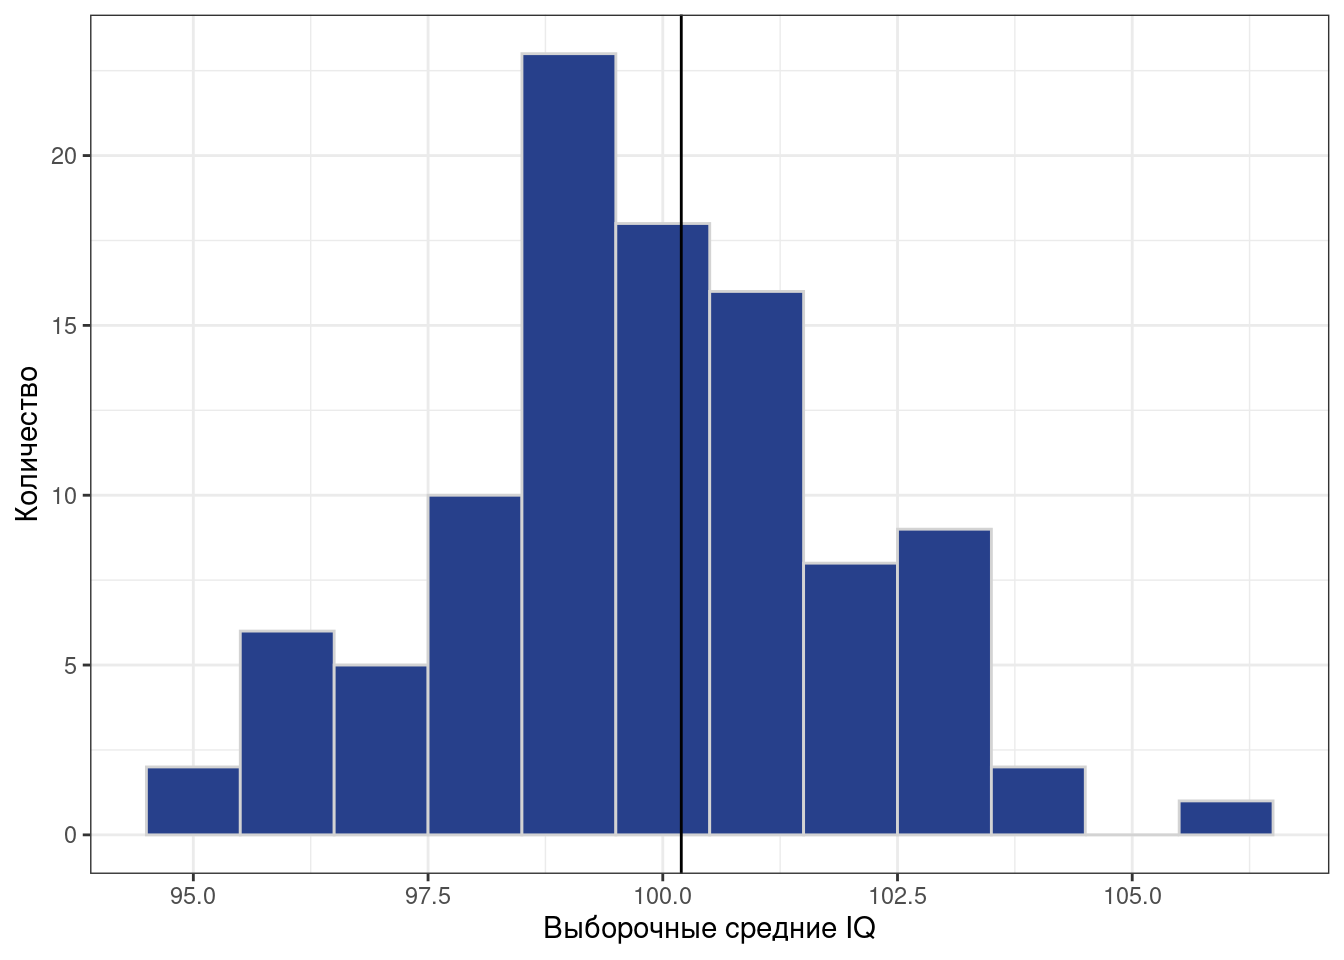
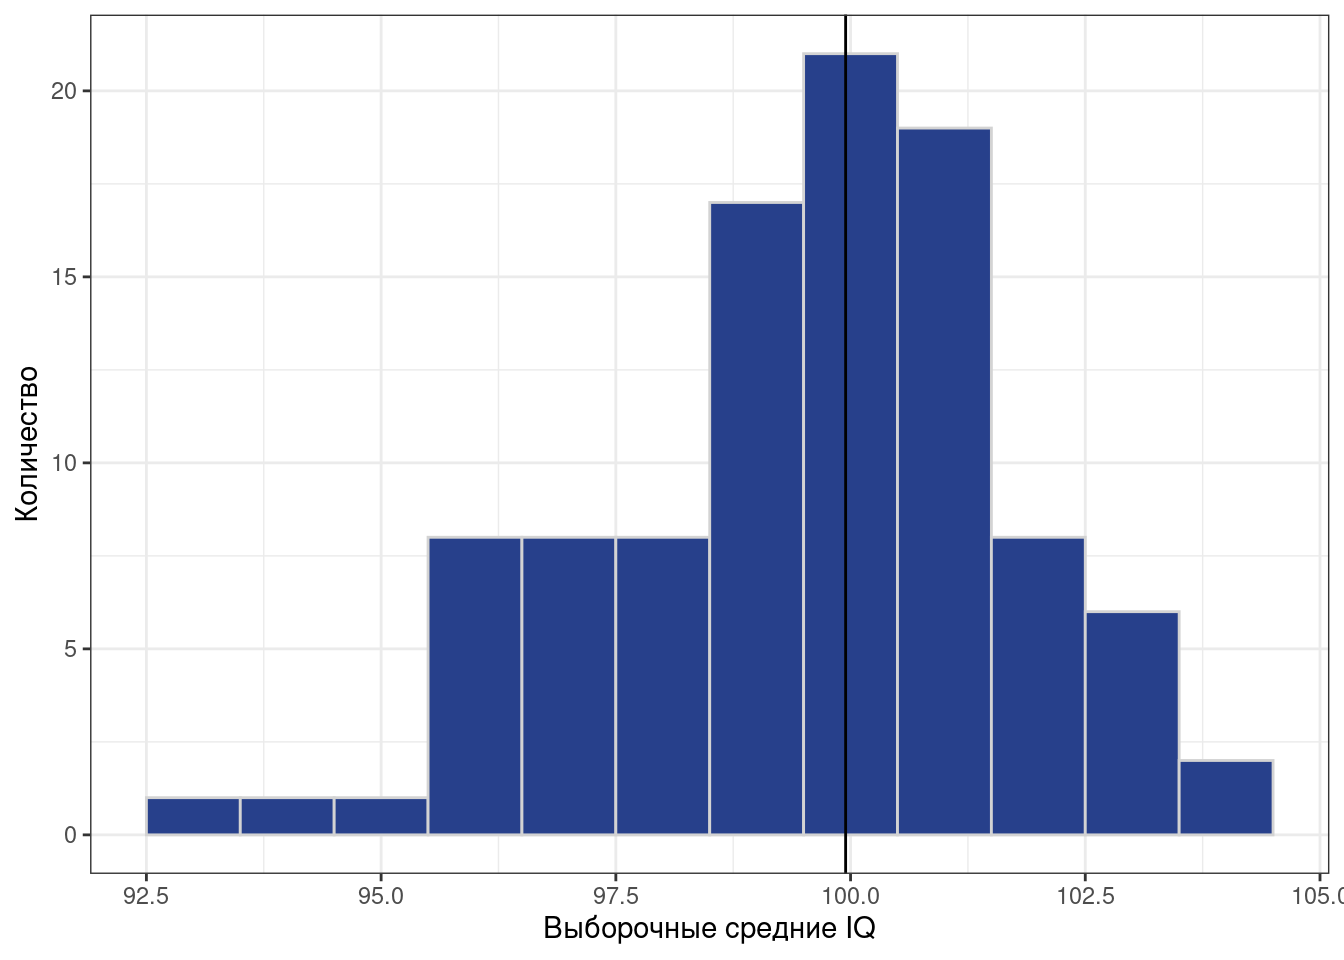
add formulas for mean and var stat-estim

diff --git a/book/_book/stats-estim.html b/book/_book/stats-estim.html
@@ -913,31 +913,31 @@ pre > code.sourceCode > span > a:first-child::before { text-decoration: underlin
 <pre><code># A tibble: 6 × 2
      id    IQ
   &lt;int&gt; &lt;dbl&gt;
-1     1    93
-2     2   118
-3     3   117
-4     4   106
-5     5   129
-6     6   136</code></pre>
+1     1   103
+2     2   109
+3     3   104
+4     4   127
+5     5    94
+6     6   114</code></pre>
 </div>
 <div class="sourceCode cell-code" id="cb5"><pre class="sourceCode r code-with-copy"><code class="sourceCode r"><span id="cb5-1"><a href="#cb5-1" aria-hidden="true" tabindex="-1"></a><span class="fu">tail</span>(iq)</span></code><button title="Копировать" class="code-copy-button"><i class="bi"></i></button></pre></div>
 <div class="cell-output cell-output-stdout">
 <pre><code># A tibble: 6 × 2
      id    IQ
   &lt;int&gt; &lt;dbl&gt;
-1  9995    98
-2  9996   116
-3  9997   103
-4  9998    95
-5  9999   135
-6 10000    80</code></pre>
+1  9995    95
+2  9996    68
+3  9997   115
+4  9998    72
+5  9999   100
+6 10000   116</code></pre>
 </div>
 </div>
 <p>Так как мы предположили, что это генеральная совокупность, то мы можем посчитать истинное значение параметра <span class="math inline">\(\mu\)</span>. <strong>В реальной жизни мы этого сделать не можем!</strong></p>
 <div class="cell">
 <div class="sourceCode cell-code" id="cb7"><pre class="sourceCode r code-with-copy"><code class="sourceCode r"><span id="cb7-1"><a href="#cb7-1" aria-hidden="true" tabindex="-1"></a><span class="fu">mean</span>(iq<span class="sc">$</span>IQ)</span></code><button title="Копировать" class="code-copy-button"><i class="bi"></i></button></pre></div>
 <div class="cell-output cell-output-stdout">
-<pre><code>[1] 100.197</code></pre>
+<pre><code>[1] 99.9475</code></pre>
 </div>
 </div>
 <p>Вполне ожидаемое значение<a href="#fn1" class="footnote-ref" id="fnref1" role="doc-noteref"><sup>1</sup></a>. Теперь попробуем наизвлекать выборок человек по 50 и посчитать <em>оценки среднего (выборочные средние)</em> <span class="math inline">\(\hat \mu\)</span> на них:</p>
@@ -1020,6 +1020,107 @@ pre > code.sourceCode > span > a:first-child::before { text-decoration: underlin
 \forall n \; \mathbb{E} \hat \theta = \theta, \quad (\mathbb{E}\hat \theta - \theta) \rightarrow 0,
 \]</span> где <span class="math inline">\(n\)</span> — объём выборки, <span class="math inline">\((\mathbb{E}\hat \theta - \theta)\)</span> — смещение.</p>
 <p>Слева представлено требование <em>несмещённости при любом объёме выборки</em>, а справа — <em>ассимптотической несмещённости</em>.</p>
+<section id="проверка-среднего-как-оценки-математического-ожидания-на-несмещенность" class="level5" data-number="24.1.4.1.1">
+<h5 data-number="24.1.4.1.1" class="anchored" data-anchor-id="проверка-среднего-как-оценки-математического-ожидания-на-несмещенность"><span class="header-section-number">24.1.4.1.1</span> Проверка среднего как оценки математического ожидания на несмещенность</h5>
+<p><span class="math display">\[
+X_1, X_2, \dots , X_n \overset{\text{i.i.d}}{\thicksim} (\mu, \sigma^2)
+\]</span></p>
+<p><span class="math display">\[
+\hat \mu = \frac{1}{m}\sum_{j=1}^m x_j = \bar X
+\]</span></p>
+<p><span class="math display">\[
+\mathbb{E}(\hat \mu) = \mathbb{E}(\bar X) \overset{?}{=} \mu
+\]</span></p>
+<p><span class="math display">\[
+\mathbb{E}(\bar X) = \mathbb{E}\big (\frac{1}{n} \sum_{i=1}^n X_i \big ) = \frac{1}{n} \mathbb{E}\Big( \sum_{i=1}^n X_i \Big) = \frac{1}{n} \sum_{i=1}^n \mathbb{E}X_i \overset{X_i \overset{\text{i.i.d}}{\sim} (\mu, \sigma^2)}{=} \frac{1}{n} \cdot n \cdot \mathbb{E}X = \frac{n}{n} \cdot \mu = \mu
+\]</span></p>
+</section>
+<section id="проверка-дисперсии-генеральной-совокупности-как-оценки-дисперсии-на-несмещенность" class="level5" data-number="24.1.4.1.2">
+<h5 data-number="24.1.4.1.2" class="anchored" data-anchor-id="проверка-дисперсии-генеральной-совокупности-как-оценки-дисперсии-на-несмещенность"><span class="header-section-number">24.1.4.1.2</span> Проверка дисперсии генеральной совокупности как оценки дисперсии на несмещенность</h5>
+<p><span class="math display">\[
+X_1, X_2, \dots , X_n \overset{\text{i.i.d}}{\thicksim} (\mu, \sigma^2)
+\]</span></p>
+<p><span class="math display">\[
+\begin{split}
+\mathbb{D}X &amp; = \sigma^2 = \mathbb{E}(X - \mathbb{E}X)^2 = \mathbb{E}(X^2 - 2 X \mathbb{E}X + \mathbb{E}^2 X) = \\
+&amp; = \mathbb{E}X^2 - 2\mathbb{E}X \mathbb{E}X + \mathbb{E}^2 X = \mathbb{E}X^2 - 2\mathbb{E}^2 X + \mathbb{E}^2 X = \\
+&amp; = \mathbb{E}X^2 - \mathbb{E}^2 X
+\end{split}
+\]</span></p>
+<p><span class="math display">\[
+\hat \sigma^2 = \frac{\sum_{i=1}^n (x_i - \bar X)^2}{n}
+\]</span></p>
+<p><span class="math display">\[
+\mathbb{E}(\hat \sigma^2) \overset{?}{=} \sigma^2
+\]</span></p>
+<p><span class="math display">\[
+\begin{split}
+\mathbb{E}(\hat \sigma^2) &amp; = \frac{\sum_{i=1}^n (x_i - \bar X)^2}{n} = \\
+&amp; = \frac{1}{n} \left(\sum_{i=1}^n x_i^2 - 2 \sum_{i=1}^n x_i \bar X  + \sum_{i=1}^n \bar X \right)\\
+&amp; = \frac{1}{n} \left(\sum_{i=1}^n x_i^2 - 2 \bar X \sum_{i=1}^n x_i + n \bar X \right)= \\
+&amp; = \frac{\sum_{i=1}^n x_i^2}{n} - 2 \bar X \frac{\sum_{i=1}^n x_i}{n} + \bar X^2 = \\
+&amp; = \overline{X^2} - 2 \bar X^2 + \bar X^2 = \overline{X^2} - \bar X^2
+\end{split}
+\]</span></p>
+<p><span class="math display">\[
+\mathbb{E}(\hat \sigma^2) = \mathbb{E}(\overline {X^2} - \bar X^2) = \underset{[1]}{\mathbb{E}\overline{X^2}} - \underset{[2]}{\mathbb{E}\bar X^2}
+\]</span></p>
+$$
+<span class="math display">\[\begin{split}
+[1] \, \mathbb{E}\overline{X^2} : &amp; \\
+
+\mathbb{E}\overline{X^2} &amp; = \mathbb{E}\left(\frac{\sum_{i=1}^n X_i^2}{n} \right)= \frac{1}{n} \mathbb{E}\left(\sum_{i=1}^n X_i^2 \right)= \\
+&amp; = \frac{1}{n} \sum_{i=1}^n \mathbb{E}X_i^2] \overset{X_i \overset{\text{i.i.d}}{\sim} (\mu, \sigma^2)}{=} \frac{1}{n} \cdot n \cdot \mathbb{E}X^2 = \mathbb{E}X^2
+
+\end{split}\]</span>
+<p>$$</p>
+$$
+<span class="math display">\[\begin{split}
+[2] \, \mathbb{E}\bar X^2 : &amp; \\
+
+\mathbb{E}\bar X^2 &amp; =
+\mathbb{E}\left[
+    \left(\frac{\sum_{i=1}^n X_i}{n} \right)^2
+  \right]=
+\frac{1}{n^2}
+\mathbb{E}\left[
+    \left(\sum_{i=1}^n X_i^2 \right)
+  \right]= \\
+&amp; = \frac{1}{n^2} \mathbb{E}\left[
+    \sum_{i=1}^n \mathbb{E}X_i^2 +
+    2 \sum_{
+      \substack{i=1, j=1 \\ i \neq j}
+      }^n X_i X_j
+    \right]= \\
+&amp; = \frac{1}{n^2} \left[
+      \sum_{i=1}^n \mathbb{E}(X_i^2) +
+      2 \sum_{
+        \substack{i=1, j=1 \\ i \neq j}
+      }^n \mathbb{E}(X_i X_j)
+    \right]= \\
+&amp; \overset{X_i \overset{\text{i.i.d}}{\sim} (\mu, \sigma^2)}{=} \frac{1}{n^2} \left[
+    n \cdot \mathbb{E}X^2 +
+    2 \sum_{
+      \substack{i=1, j=1 \\ i \neq j}
+    }^n \mathbb{E}(X_i) \mathbb{E}(X_j) \right]= \\
+&amp; = \frac{1}{n} \left[n \cdot \mathbb{E}X2 + 2 \cdot \frac{n(n-1)}{2} \mathbb{E}^2 X \right]= \\
+&amp; = \frac{1}{n} \mathbb{E}X^2 + \frac{n-1}{n} \mathbb{E}^2 X
+\end{split}\]</span>
+<p>$$</p>
+<p><span class="math display">\[
+\begin{split}
+\mathbb{E}(\hat \sigma^2)
+&amp; = \mathbb{E}\overline{X^2} - \mathbb{E}\bar X^2 = \\
+&amp; = \mathbb{E}X^2 - \left(\frac{1}{n} \mathbb{E}X^2 + \frac{n-1}{n} \mathbb{E}^2 X \right)= \\
+&amp; = \frac{n}{n} \mathbb{E}X^2 - \frac{1}{n} \mathbb{E}X^2 - \frac{n-1}{n} \mathbb{E}^2 X = \\
+&amp; = \frac{n-1}{n} \mathbb{E}X^2 - \frac{n-1}{n} \mathbb{E}^2 X = \frac{n-1}{n} \left(\mathbb{E}X^2 - \mathbb{E}^2 X \right)\\
+&amp; = \frac{n-1}{n} \sigma^2
+\end{split}
+\]</span></p>
+<p><span class="math display">\[
+s^2 = \frac{n}{n-1} \sigma^2 = \frac{n}{n-1} \cdot \frac{1}{n} \cdot \sum_{i=1}^n (x_i - \bar X) = \frac{1}{n-1} \sum_{i=1}^n (x_i - \bar X)
+\]</span></p>
+</section>
 </section>
 <section id="состоятельность" class="level4" data-number="24.1.4.2">
 <h4 data-number="24.1.4.2" class="anchored" data-anchor-id="состоятельность"><span class="header-section-number">24.1.4.2</span> Состоятельность</h4>
@@ -1028,7 +1129,7 @@ pre > code.sourceCode > span > a:first-child::before { text-decoration: underlin
 </div>
 <p>Математически <strong>состоятельность</strong> определяется следующим образом:</p>
 <p><span class="math display">\[
-\lim_{n \rightarrow \infty} \mathrm{P}(|\hat \theta - \theta| &lt; \varepsilon) = 1, \, \varepsilon &gt; 0
+\lim_{n \rightarrow \infty} \mathbb{P}(|\hat \theta - \theta| &lt; \varepsilon) = 1, \, \varepsilon &gt; 0
 \]</span></p>
 <p>Содержательно эта запись нам говорит следующее, что при неограниченном росте мощности выборки наша оценка стремится к истинному значению параметра. Может быть, такая формулировка не совсем точна математически, но позволяет представить, что происходит.</p>
 </section>
@@ -1130,12 +1231,12 @@ t = \frac{\bar x - \mu}{s}\sqrt{n-1},
 <div class="sourceCode cell-code" id="cb10"><pre class="sourceCode r code-with-copy"><code class="sourceCode r"><span id="cb10-1"><a href="#cb10-1" aria-hidden="true" tabindex="-1"></a><span class="fu">mean_cl_normal</span>(iq<span class="sc">$</span>IQ)</span></code><button title="Копировать" class="code-copy-button"><i class="bi"></i></button></pre></div>
 <div class="cell-output cell-output-stdout">
 <pre><code>        y     ymin     ymax
-1 100.197 99.90477 100.4892</code></pre>
+1 99.9475 99.65574 100.2393</code></pre>
 </div>
 <div class="sourceCode cell-code" id="cb12"><pre class="sourceCode r code-with-copy"><code class="sourceCode r"><span id="cb12-1"><a href="#cb12-1" aria-hidden="true" tabindex="-1"></a><span class="fu">mean_cl_boot</span>(iq<span class="sc">$</span>IQ)</span></code><button title="Копировать" class="code-copy-button"><i class="bi"></i></button></pre></div>
 <div class="cell-output cell-output-stdout">
-<pre><code>        y     ymin    ymax
-1 100.197 99.88662 100.485</code></pre>
+<pre><code>        y    ymin    ymax
+1 99.9475 99.6643 100.259</code></pre>
 </div>
 </div>
 
